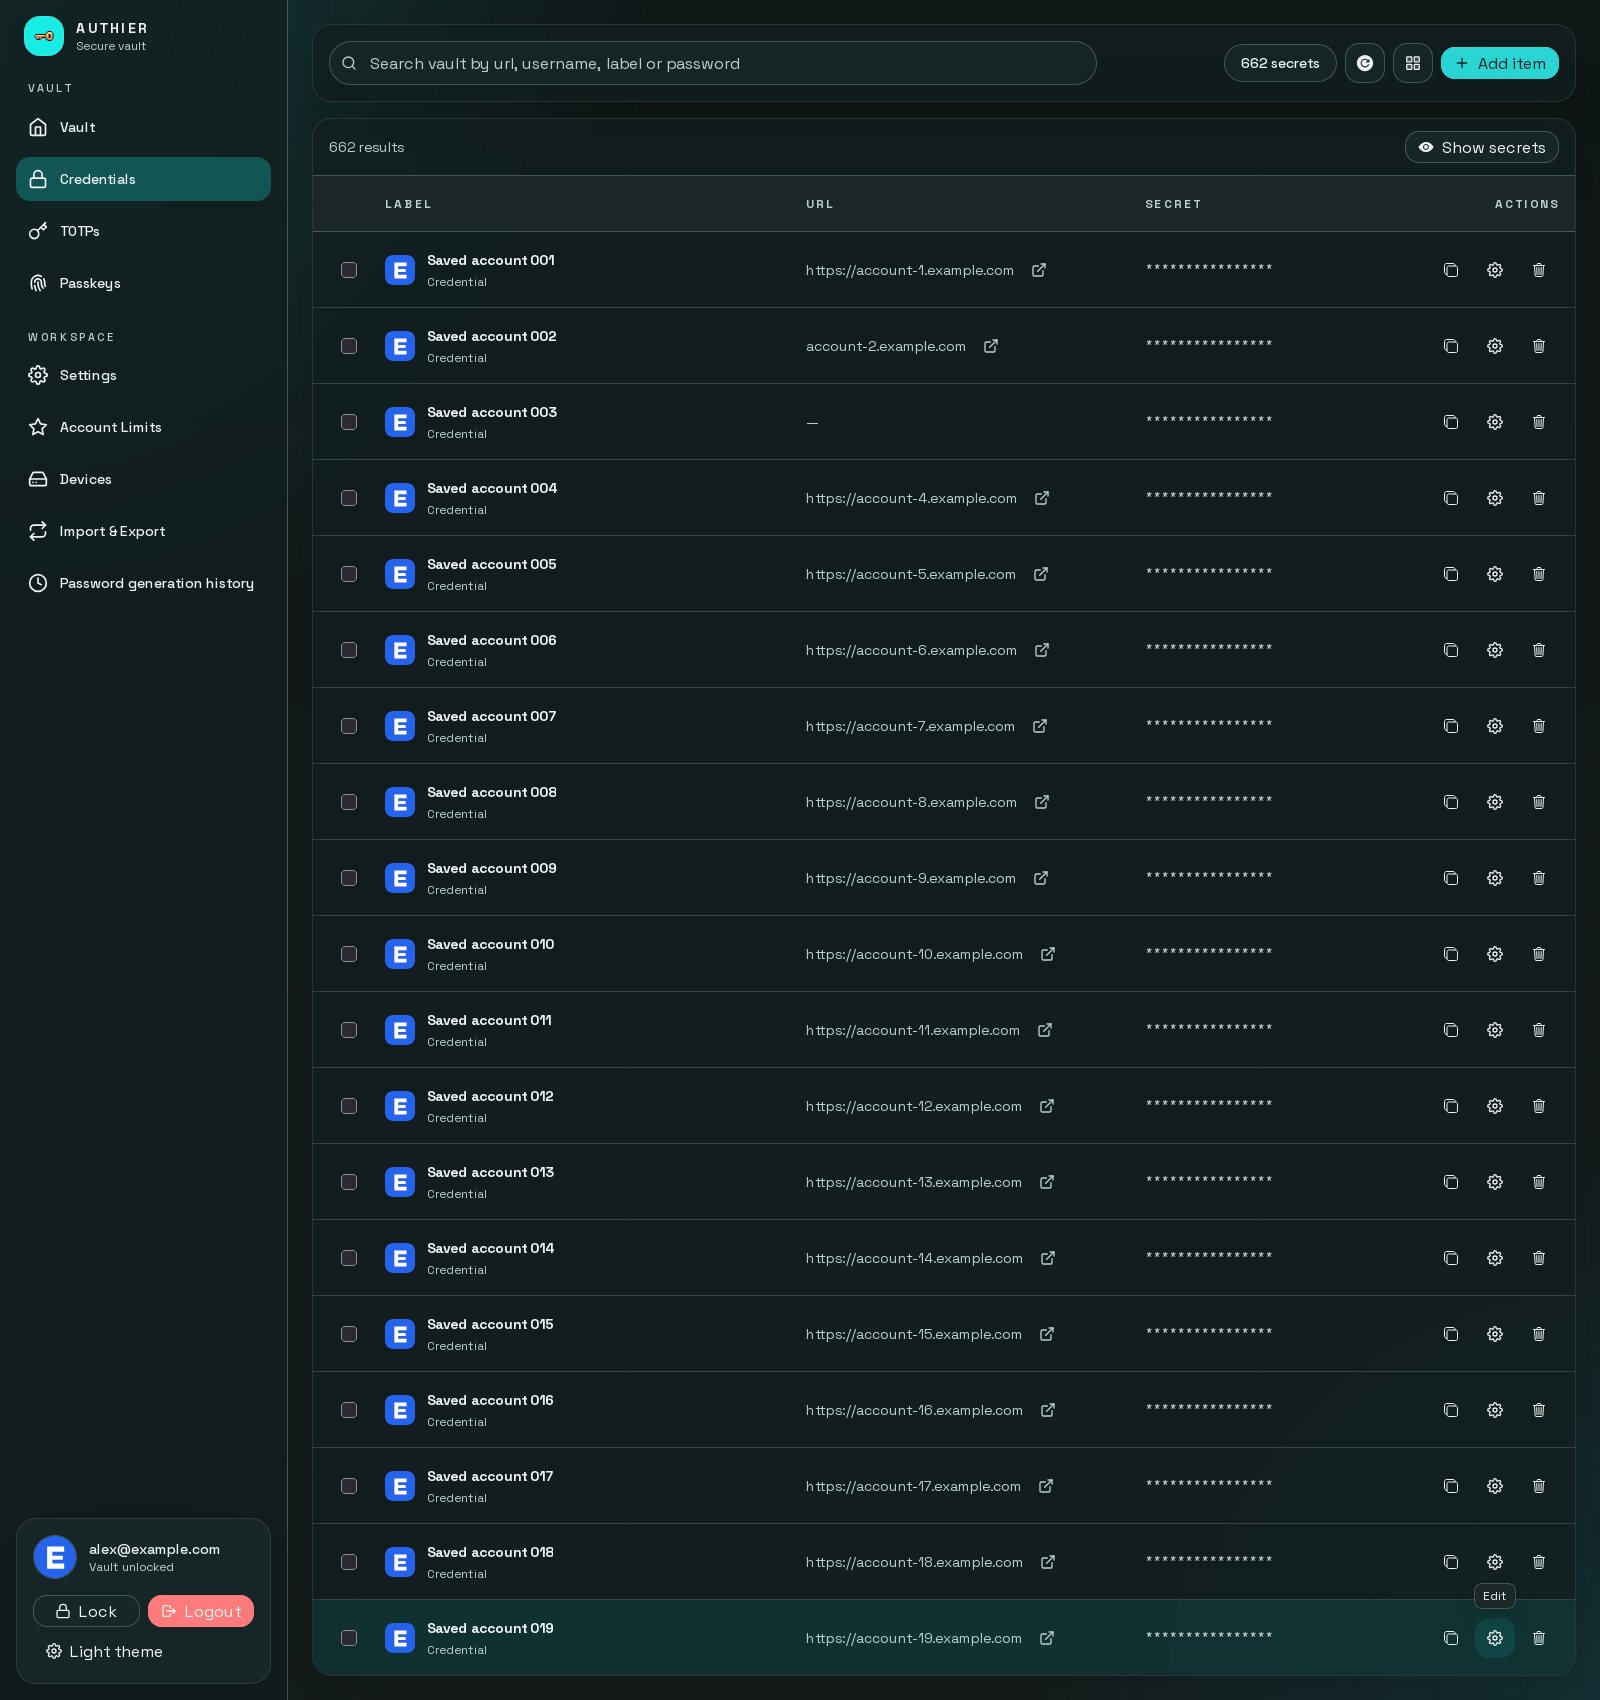
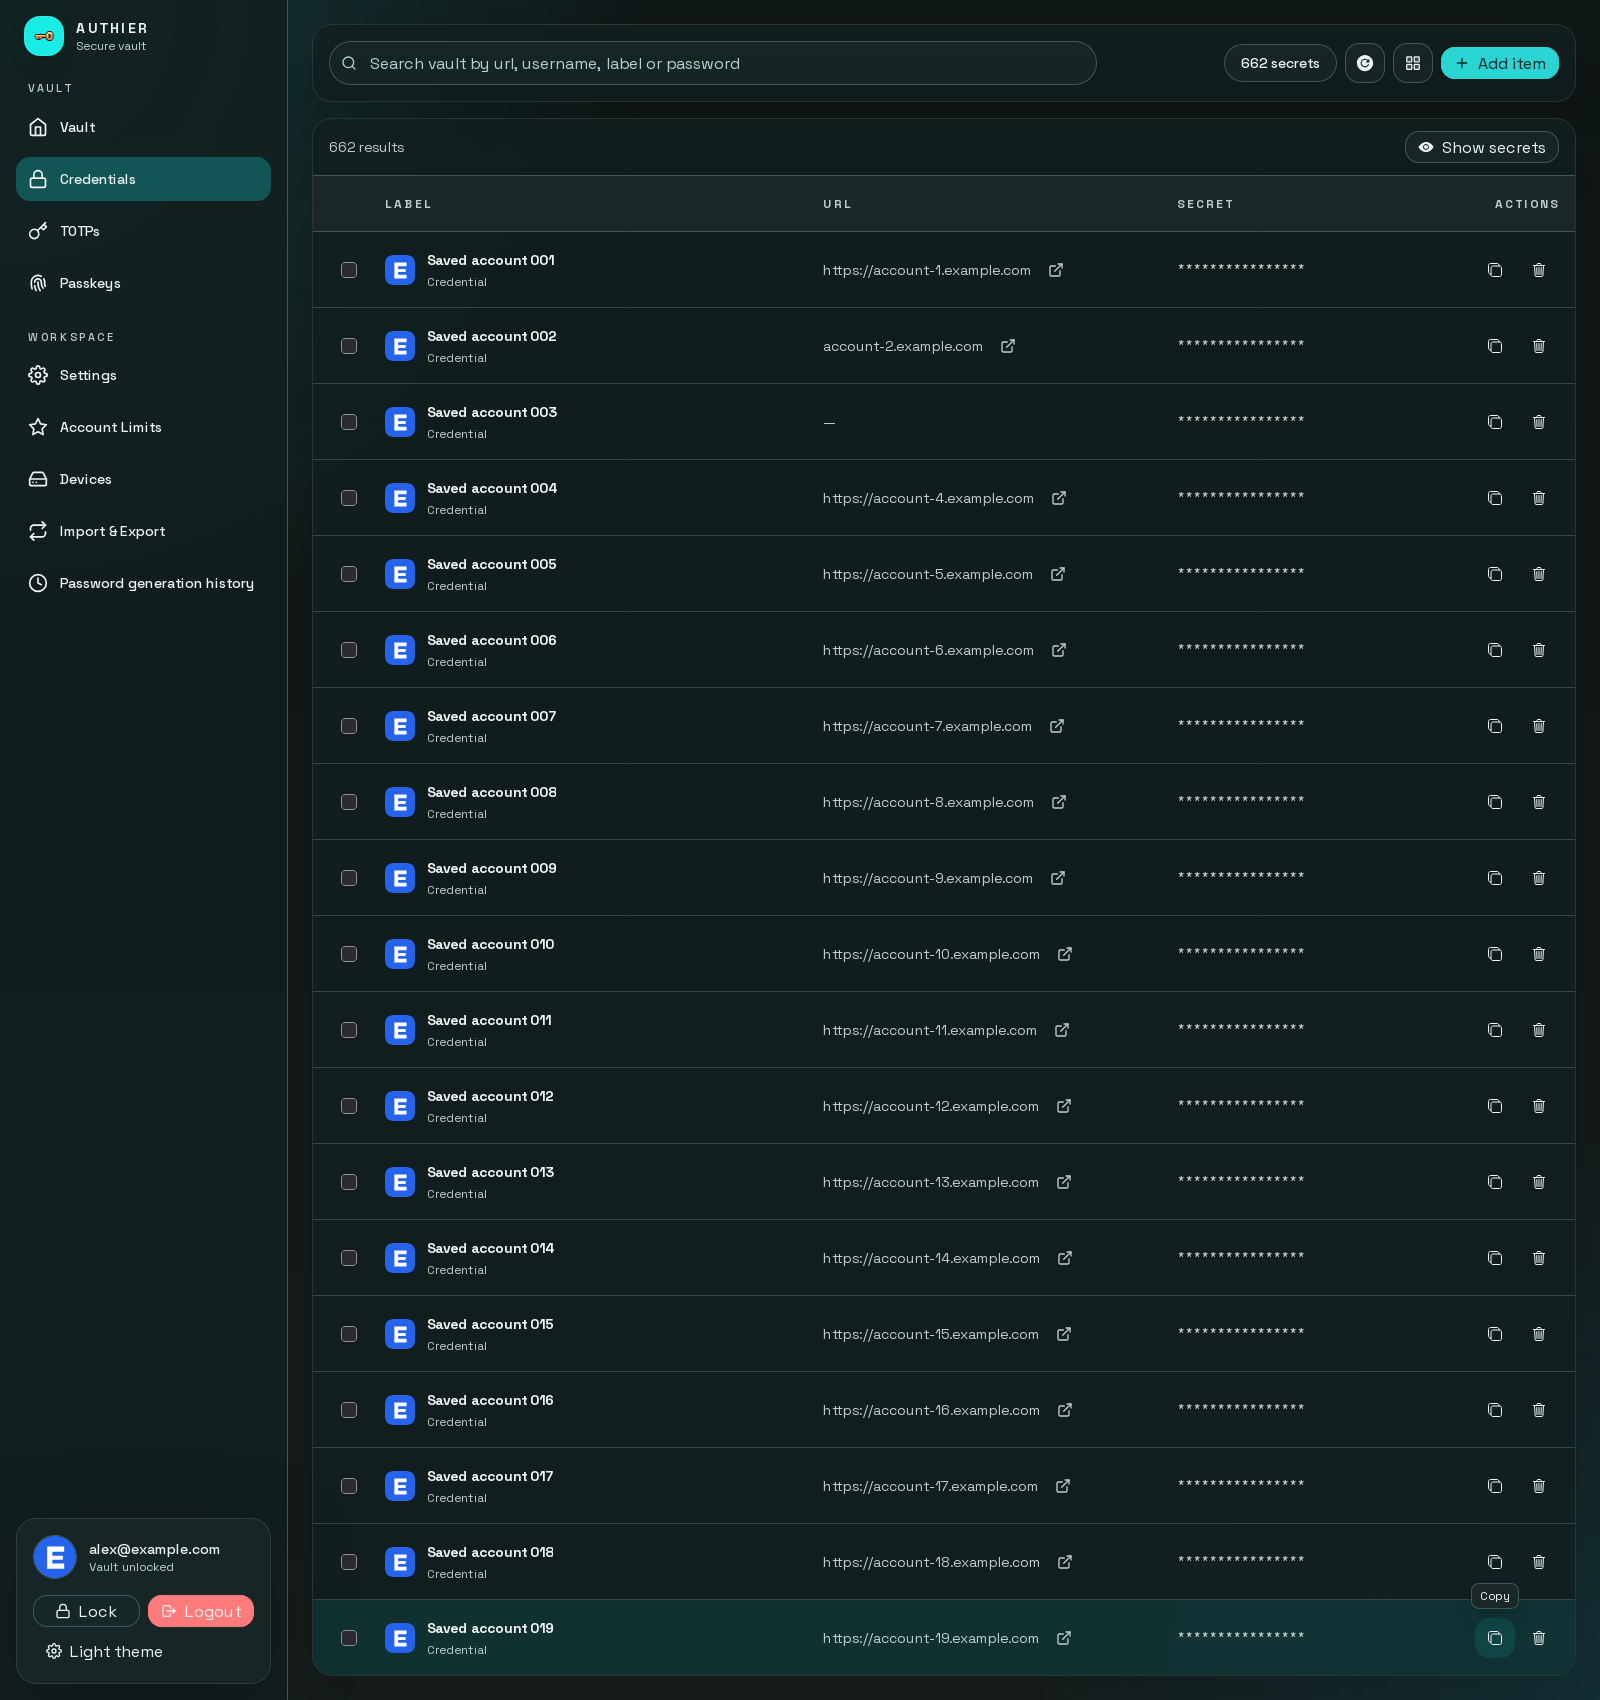
Remove the redundant vault row settings action

Changed region(s): [[0.9062, 0.9353, 0.9375, 0.9665], [0.5625, 0.6235, 0.5938, 0.6547]]

diff --git a/web-extension/src/components/vault/TableList.tsx b/web-extension/src/components/vault/TableList.tsx
@@ -3,12 +3,7 @@ import { Link, useLocation } from 'react-router-dom'
 import { Trans } from '@lingui/react/macro'
 import { t } from '@lingui/core/macro'
 import { FiExternalLink } from 'react-icons/fi'
-import {
-  CopyIcon,
-  EditIcon,
-  ViewIcon,
-  ViewOffIcon
-} from '@src/components/ui/icons'
+import { CopyIcon, ViewIcon, ViewOffIcon } from '@src/components/ui/icons'
 import { Button, buttonVariants } from '@src/components/ui/button'
 import { Tooltip } from '@src/components/ui/tooltip'
 import { DeleteSecretButton } from './DeleteSecretButton'
@@ -35,7 +30,7 @@ import { useScrollContainer, useVirtualWindow } from './useVirtualWindow'
 
 const tableGridStyle = {
   gridTemplateColumns:
-    '40px minmax(280px, 1.5fr) minmax(260px, 1.2fr) minmax(260px, 1fr) 128px'
+    '40px minmax(280px, 1.5fr) minmax(260px, 1.2fr) minmax(260px, 1fr) 84px'
 } as const
 
 const tableGridClassName = 'grid min-w-[940px] gap-4 px-4'
@@ -299,18 +294,6 @@ function SecretTableRow({
             </Button>
           </Tooltip>
         )}
-        <Tooltip content={t`Edit`}>
-          <Link
-            aria-label={t`Edit ${getSecretLabel(row)}`}
-            className={buttonVariants({ size: 'icon', variant: 'ghost' })}
-            to={{
-              pathname: `/secret/${row.id}`
-            }}
-          >
-            <EditIcon boxSize={16} />
-          </Link>
-        </Tooltip>
-
         {isBulkMode ? null : <DeleteSecretButton secrets={[row]} size="icon" />}
       </div>
     </div>

diff --git a/web-extension/tests/ui-preview/passkeyVault.spec.ts b/web-extension/tests/ui-preview/passkeyVault.spec.ts
@@ -15,7 +15,7 @@ test('edits an encrypted passkey label and displays it in the list', async ({
     path: '../docs/screenshots/passkey-vault-list.png'
   })
   await page
-    .getByRole('link', { name: 'Edit alex@example.com | GitHub' })
+    .getByRole('link', { name: 'View details for alex@example.com | GitHub' })
     .click()
   await expect(page.getByText('github.com', { exact: true })).toBeVisible()
   await expect(
@@ -41,7 +41,9 @@ test('edits an encrypted passkey label and displays it in the list', async ({
     page.getByText('alex@example.com | GitHub — Work', { exact: true })
   ).toBeVisible()
   await page
-    .getByRole('link', { name: 'Edit alex@example.com | GitHub — Work' })
+    .getByRole('link', {
+      name: 'View details for alex@example.com | GitHub — Work'
+    })
     .click()
   await expect(label).toHaveValue('alex@example.com | GitHub — Work')
 })
@@ -52,7 +54,7 @@ test('keeps the saved label when sync fails and allows retry', async ({
   await page.setViewportSize({ width: 1280, height: 800 })
   await page.goto('/?scenario=passkey-vault&failSave=1')
   await page
-    .getByRole('link', { name: 'Edit alex@example.com | GitHub' })
+    .getByRole('link', { name: 'View details for alex@example.com | GitHub' })
     .click()
   const label = page.getByRole('textbox', { name: 'Label', exact: true })
   await label.fill('Work account')

diff --git a/web-extension/tests/ui-preview/vaultTableNavigation.spec.ts b/web-extension/tests/ui-preview/vaultTableNavigation.spec.ts
@@ -129,7 +129,7 @@ test('opens websites in a separate tab and omits the button when no URL is store
   }
 })
 
-test('keeps selection, reveal, copy, edit and delete independent of row navigation', async ({
+test('keeps selection, visibility, copy and delete independent of row navigation', async ({
   page
 }) => {
   const checkbox = page.getByRole('checkbox', {
@@ -170,7 +170,10 @@ test('keeps selection, reveal, copy, edit and delete independent of row navigati
   await expect(page.getByText('662 results', { exact: true })).toBeVisible()
 
   await row
-    .getByRole('link', { name: 'Edit Saved account 001', exact: true })
+    .getByRole('link', {
+      name: 'View details for Saved account 001',
+      exact: true
+    })
     .click()
   await expect(
     page.getByRole('heading', { name: 'Saved account 001', exact: true })

diff --git a/web-extension/ui-preview/README.md b/web-extension/ui-preview/README.md
@@ -191,8 +191,9 @@ items in Firefox and Chromium. Screenshots are captured under
 `docs/screenshots/vault-scrolling-{table,cards}-{firefox,chromium}.png`.
 Run `pnpm playwright:ui-preview vaultTableNavigation.spec.ts` to verify row and
 keyboard navigation, website links, the top-level show/hide-secrets toggle, and
-independent checkbox, copy, edit, and delete controls. Row actions omit a reveal
-button. It captures `docs/screenshots/vault-table-navigation.png`.
+independent checkbox, copy, and delete controls. Row actions omit reveal and edit
+buttons; clicking the row opens the editor. It captures
+`docs/screenshots/vault-table-navigation.png`.
 
 The `offline-vault` scenario (`scenarios/offlineVault.ts`) renders the actual built
 extension in a disposable Chromium profile with encrypted synthetic passwords,
